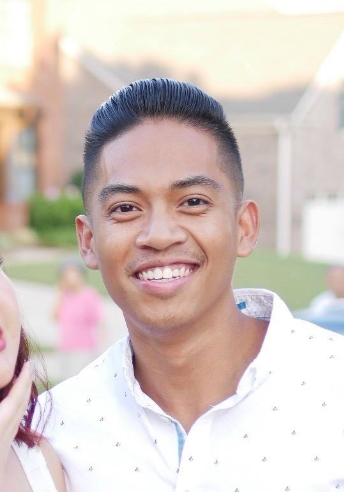
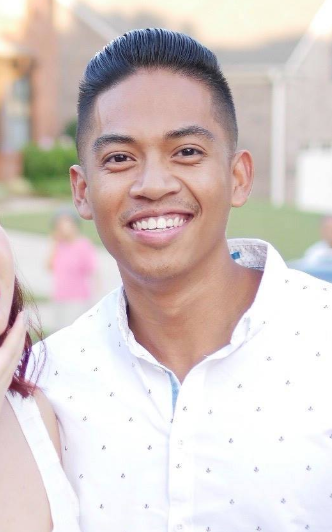
added personal image added cards for portfolio

diff --git a/index.html b/index.html
@@ -9,8 +9,9 @@
 
   <link href="https://fonts.googleapis.com/css?family=Poppins:400,500,600,700%7CAllura" rel="stylesheet">
   <link rel="stylesheet" href="https://use.fontawesome.com/releases/v5.8.1/css/all.css"
-  integrity="sha384-50oBUHEmvpQ+1lW4y57PTFmhCaXp0ML5d60M1M7uH2+nqUivzIebhndOJK28anvf" crossorigin="anonymous">
-  <link rel="stylesheet" href="https://stackpath.bootstrapcdn.com/bootstrap/4.3.1/css/bootstrap.min.css" integrity="sha384-ggOyR0iXCbMQv3Xipma34MD+dH/1fQ784/j6cY/iJTQUOhcWr7x9JvoRxT2MZw1T" crossorigin="anonymous">
+    integrity="sha384-50oBUHEmvpQ+1lW4y57PTFmhCaXp0ML5d60M1M7uH2+nqUivzIebhndOJK28anvf" crossorigin="anonymous">
+  <link rel="stylesheet" href="https://stackpath.bootstrapcdn.com/bootstrap/4.3.1/css/bootstrap.min.css"
+    integrity="sha384-ggOyR0iXCbMQv3Xipma34MD+dH/1fQ784/j6cY/iJTQUOhcWr7x9JvoRxT2MZw1T" crossorigin="anonymous">
   <link href="common-css/fluidbox.min.css" rel="stylesheet">
   <link href="01-cv-portfolio/css/styles.css" rel="stylesheet">
   <link href="01-cv-portfolio/css/responsive.css" rel="stylesheet">
@@ -41,9 +42,9 @@
           </div>
           <div class="col-sm-6 col-md-6 col-lg-4">
             <div class="info">
-                <i class="icon fas fa-envelope"></i>
-                <div class="right-area">
-                <h5><a href="">Email:</a></h5>
+              <i class="icon fas fa-envelope"></i>
+              <div class="right-area">
+                <h5>Email:</h5>
                 <h5><a href="">salamancaronito@gmail.com</a></h5>
               </div>
             </div>
@@ -58,16 +59,10 @@
       <div class="row">
         <div class="col-md-1 col-lg-2"></div>
         <div class="col-md-10 col-lg-8">
-          <div class="intro">
-            <div class="profile-img"><img src="https://placeimg.com/250/250/any" alt=""></div>
+          <div class="intro rounded-top">
+            <div class="profile-img"><img src="/images/profile.png" alt=""></div>
             <h2><b>RJ Salamanca</b></h2>
             <h4 class="font-yellow">Full Stack Web Developer</h4>
-            <!-- <ul class="information margin-tb-30">
-              <li><b>BORN : </b>August 25, 1987</li>
-              <li><b>EMAIL : </b><a href="/cdn-cgi/l/email-protection" class="__cf_email__"
-                  data-cfemail="92ffebfffbe6fad2ffebe5f7f0e2f3f5f7bcf1fdff">[email&#160;protected]</a></li>
-              <li><b>MARITAL STATUS : </b>Married</li>
-            </ul> -->
             <ul class="social-icons">
               <li><a href="#"><i class="fab fa-github"></i></a></li>
               <li><a href="#"><i class="fab fa-linkedin"></i></a></li>
@@ -88,141 +83,64 @@
           </div>
         </div>
         <div class="container">
-
-          <div class="row">
-            <div class="col-md-4">
+          <div class="row card-group">
+            <div class="d-flex col-md-4">
               <div class="card mb-4 shadow-sm">
-                <svg class="bd-placeholder-img card-img-top" width="100%" height="225" xmlns="http://www.w3.org/2000/svg" preserveAspectRatio="xMidYMid slice" focusable="false" role="img" aria-label="Placeholder: Thumbnail"><title>Placeholder</title><rect width="100%" height="100%" fill="#55595c"></rect><text x="50%" y="50%" fill="#eceeef" dy=".3em">Thumbnail</text></svg>
-                <div class="card-body">
-                  <p class="card-text">This is a wider card with supporting text below as a natural lead-in to additional content. This content is a little bit longer.</p>
-                  <div class="d-flex justify-content-between align-items-center">
+                <img class="card-img-top" src="https://placeimg.com/640/480/any" alt="Card image cap">
+                <div class="d-flex flex-column card-body">
+                  <h5 class="card-title">Dangerous Diving</h5>
+                  <p class="card-text">This is a wider card with supporting text below as a natural lead-in to
+                    additional content. This content is a little bit longer.</p>
+                  <div class="d-flex flex-grow-1 justify-content-between align-items-end mt-2">
                     <div class="btn-group">
                       <button type="button" class="btn btn-sm btn-outline-secondary">View</button>
                       <button type="button" class="btn btn-sm btn-outline-secondary">Edit</button>
                     </div>
-                    <small class="text-muted">9 mins</small>
+                    <div class="ml-2">
+                      <i class="icon fab fa-python"></i>
+                    </div>                    
                   </div>
                 </div>
               </div>
             </div>
-            <div class="col-md-4">
+            <div class="d-flex col-md-4">
               <div class="card mb-4 shadow-sm">
-                <svg class="bd-placeholder-img card-img-top" width="100%" height="225" xmlns="http://www.w3.org/2000/svg" preserveAspectRatio="xMidYMid slice" focusable="false" role="img" aria-label="Placeholder: Thumbnail"><title>Placeholder</title><rect width="100%" height="100%" fill="#55595c"></rect><text x="50%" y="50%" fill="#eceeef" dy=".3em">Thumbnail</text></svg>
-                <div class="card-body">
-                  <p class="card-text">This is a wider card with supporting text below as a natural lead-in to additional content. This content is a little bit longer.</p>
-                  <div class="d-flex justify-content-between align-items-center">
+                <img class="card-img-top" src="https://placeimg.com/640/480/any" alt="Card image cap">
+                <div class="d-flex flex-column card-body">
+                  <p class="card-text">This is a wider card with supporting text below as a natural lead-in to
+                    additional content. This content is a little bit longer.</p>
+                  <div class="d-flex flex-grow-1 justify-content-between align-items-end mt-2">
                     <div class="btn-group">
                       <button type="button" class="btn btn-sm btn-outline-secondary">View</button>
                       <button type="button" class="btn btn-sm btn-outline-secondary">Edit</button>
                     </div>
-                    <small class="text-muted">9 mins</small>
+                    <div class="ml-2">
+                      <i class="icon fab fa-js-square"></i>
+                      <i class="icon fab fa-html5"></i>
+                      <i class="icon fab fa-css3-alt"></i>
+                    </div>
                   </div>
                 </div>
               </div>
             </div>
-            <div class="col-md-4">
+            <div class="d-flex col-md-4">
               <div class="card mb-4 shadow-sm">
-                <svg class="bd-placeholder-img card-img-top" width="100%" height="225" xmlns="http://www.w3.org/2000/svg" preserveAspectRatio="xMidYMid slice" focusable="false" role="img" aria-label="Placeholder: Thumbnail"><title>Placeholder</title><rect width="100%" height="100%" fill="#55595c"></rect><text x="50%" y="50%" fill="#eceeef" dy=".3em">Thumbnail</text></svg>
-                <div class="card-body">
-                  <p class="card-text">This is a wider card with supporting text below as a natural lead-in to additional content. This content is a little bit longer.</p>
-                  <div class="d-flex justify-content-between align-items-center">
+                <img class="card-img-top" src="https://placeimg.com/640/480/any" alt="Card image cap">
+                <div class="d-flex flex-column card-body">
+                  <p class="card-text">This is a wider card with supporting text below as a natural lead-in to
+                    additional content. This content is a little bit longer.</p>
+                  <div class="d-flex flex-grow-1 justify-content-between align-items-end mt-2">
                     <div class="btn-group">
                       <button type="button" class="btn btn-sm btn-outline-secondary">View</button>
                       <button type="button" class="btn btn-sm btn-outline-secondary">Edit</button>
                     </div>
-                    <small class="text-muted">9 mins</small>
-                  </div>
-                </div>
-              </div>
-            </div>
-    
-            <div class="col-md-4">
-              <div class="card mb-4 shadow-sm">
-                <svg class="bd-placeholder-img card-img-top" width="100%" height="225" xmlns="http://www.w3.org/2000/svg" preserveAspectRatio="xMidYMid slice" focusable="false" role="img" aria-label="Placeholder: Thumbnail"><title>Placeholder</title><rect width="100%" height="100%" fill="#55595c"></rect><text x="50%" y="50%" fill="#eceeef" dy=".3em">Thumbnail</text></svg>
-                <div class="card-body">
-                  <p class="card-text">This is a wider card with supporting text below as a natural lead-in to additional content. This content is a little bit longer.</p>
-                  <div class="d-flex justify-content-between align-items-center">
-                    <div class="btn-group">
-                      <button type="button" class="btn btn-sm btn-outline-secondary">View</button>
-                      <button type="button" class="btn btn-sm btn-outline-secondary">Edit</button>
+                    <div class="ml-2">
+                      <i class="icon fab fa-js-square"></i>
+                      <i class="icon fab fa-node"></i>
+                      <i class="icon fab fa-html5"></i>
+                      <i class="icon fab fa-css3-alt"></i>
+                      <i class="icon fab fa-bootstrap"></i>
                     </div>
-                    <small class="text-muted">9 mins</small>
-                  </div>
-                </div>
-              </div>
-            </div>
-            <div class="col-md-4">
-              <div class="card mb-4 shadow-sm">
-                <svg class="bd-placeholder-img card-img-top" width="100%" height="225" xmlns="http://www.w3.org/2000/svg" preserveAspectRatio="xMidYMid slice" focusable="false" role="img" aria-label="Placeholder: Thumbnail"><title>Placeholder</title><rect width="100%" height="100%" fill="#55595c"></rect><text x="50%" y="50%" fill="#eceeef" dy=".3em">Thumbnail</text></svg>
-                <div class="card-body">
-                  <p class="card-text">This is a wider card with supporting text below as a natural lead-in to additional content. This content is a little bit longer.</p>
-                  <div class="d-flex justify-content-between align-items-center">
-                    <div class="btn-group">
-                      <button type="button" class="btn btn-sm btn-outline-secondary">View</button>
-                      <button type="button" class="btn btn-sm btn-outline-secondary">Edit</button>
-                    </div>
-                    <small class="text-muted">9 mins</small>
-                  </div>
-                </div>
-              </div>
-            </div>
-            <div class="col-md-4">
-              <div class="card mb-4 shadow-sm">
-                <svg class="bd-placeholder-img card-img-top" width="100%" height="225" xmlns="http://www.w3.org/2000/svg" preserveAspectRatio="xMidYMid slice" focusable="false" role="img" aria-label="Placeholder: Thumbnail"><title>Placeholder</title><rect width="100%" height="100%" fill="#55595c"></rect><text x="50%" y="50%" fill="#eceeef" dy=".3em">Thumbnail</text></svg>
-                <div class="card-body">
-                  <p class="card-text">This is a wider card with supporting text below as a natural lead-in to additional content. This content is a little bit longer.</p>
-                  <div class="d-flex justify-content-between align-items-center">
-                    <div class="btn-group">
-                      <button type="button" class="btn btn-sm btn-outline-secondary">View</button>
-                      <button type="button" class="btn btn-sm btn-outline-secondary">Edit</button>
-                    </div>
-                    <small class="text-muted">9 mins</small>
-                  </div>
-                </div>
-              </div>
-            </div>
-    
-            <div class="col-md-4">
-              <div class="card mb-4 shadow-sm">
-                <svg class="bd-placeholder-img card-img-top" width="100%" height="225" xmlns="http://www.w3.org/2000/svg" preserveAspectRatio="xMidYMid slice" focusable="false" role="img" aria-label="Placeholder: Thumbnail"><title>Placeholder</title><rect width="100%" height="100%" fill="#55595c"></rect><text x="50%" y="50%" fill="#eceeef" dy=".3em">Thumbnail</text></svg>
-                <div class="card-body">
-                  <p class="card-text">This is a wider card with supporting text below as a natural lead-in to additional content. This content is a little bit longer.</p>
-                  <div class="d-flex justify-content-between align-items-center">
-                    <div class="btn-group">
-                      <button type="button" class="btn btn-sm btn-outline-secondary">View</button>
-                      <button type="button" class="btn btn-sm btn-outline-secondary">Edit</button>
-                    </div>
-                    <small class="text-muted">9 mins</small>
-                  </div>
-                </div>
-              </div>
-            </div>
-            <div class="col-md-4">
-              <div class="card mb-4 shadow-sm">
-                <svg class="bd-placeholder-img card-img-top" width="100%" height="225" xmlns="http://www.w3.org/2000/svg" preserveAspectRatio="xMidYMid slice" focusable="false" role="img" aria-label="Placeholder: Thumbnail"><title>Placeholder</title><rect width="100%" height="100%" fill="#55595c"></rect><text x="50%" y="50%" fill="#eceeef" dy=".3em">Thumbnail</text></svg>
-                <div class="card-body">
-                  <p class="card-text">This is a wider card with supporting text below as a natural lead-in to additional content. This content is a little bit longer.</p>
-                  <div class="d-flex justify-content-between align-items-center">
-                    <div class="btn-group">
-                      <button type="button" class="btn btn-sm btn-outline-secondary">View</button>
-                      <button type="button" class="btn btn-sm btn-outline-secondary">Edit</button>
-                    </div>
-                    <small class="text-muted">9 mins</small>
-                  </div>
-                </div>
-              </div>
-            </div>
-            <div class="col-md-4">
-              <div class="card mb-4 shadow-sm">
-                <svg class="bd-placeholder-img card-img-top" width="100%" height="225" xmlns="http://www.w3.org/2000/svg" preserveAspectRatio="xMidYMid slice" focusable="false" role="img" aria-label="Placeholder: Thumbnail"><title>Placeholder</title><rect width="100%" height="100%" fill="#55595c"></rect><text x="50%" y="50%" fill="#eceeef" dy=".3em">Thumbnail</text></svg>
-                <div class="card-body">
-                  <p class="card-text">This is a wider card with supporting text below as a natural lead-in to additional content. This content is a little bit longer.</p>
-                  <div class="d-flex justify-content-between align-items-center">
-                    <div class="btn-group">
-                      <button type="button" class="btn btn-sm btn-outline-secondary">View</button>
-                      <button type="button" class="btn btn-sm btn-outline-secondary">Edit</button>
-                    </div>
-                    <small class="text-muted">9 mins</small>
                   </div>
                 </div>
               </div>
@@ -392,12 +310,18 @@
   <script src="common-js/jquery.waypoints.min.js" type="68a1658774019bd5bb69f142-text/javascript"></script>
   <script src="common-js/progressbar.min.js" type="68a1658774019bd5bb69f142-text/javascript"></script>
   <script src="common-js/scripts.js" type="68a1658774019bd5bb69f142-text/javascript"></script>
-  
-  <script src="https://code.jquery.com/jquery-3.3.1.slim.min.js" integrity="sha384-q8i/X+965DzO0rT7abK41JStQIAqVgRVzpbzo5smXKp4YfRvH+8abtTE1Pi6jizo" crossorigin="anonymous"></script>
-<script src="https://cdnjs.cloudflare.com/ajax/libs/popper.js/1.14.7/umd/popper.min.js" integrity="sha384-UO2eT0CpHqdSJQ6hJty5KVphtPhzWj9WO1clHTMGa3JDZwrnQq4sF86dIHNDz0W1" crossorigin="anonymous"></script>
-<script src="https://stackpath.bootstrapcdn.com/bootstrap/4.3.1/js/bootstrap.min.js" integrity="sha384-JjSmVgyd0p3pXB1rRibZUAYoIIy6OrQ6VrjIEaFf/nJGzIxFDsf4x0xIM+B07jRM" crossorigin="anonymous"></script>
 
- 
+  <script src="https://code.jquery.com/jquery-3.3.1.slim.min.js"
+    integrity="sha384-q8i/X+965DzO0rT7abK41JStQIAqVgRVzpbzo5smXKp4YfRvH+8abtTE1Pi6jizo" crossorigin="anonymous">
+  </script>
+  <script src="https://cdnjs.cloudflare.com/ajax/libs/popper.js/1.14.7/umd/popper.min.js"
+    integrity="sha384-UO2eT0CpHqdSJQ6hJty5KVphtPhzWj9WO1clHTMGa3JDZwrnQq4sF86dIHNDz0W1" crossorigin="anonymous">
+  </script>
+  <script src="https://stackpath.bootstrapcdn.com/bootstrap/4.3.1/js/bootstrap.min.js"
+    integrity="sha384-JjSmVgyd0p3pXB1rRibZUAYoIIy6OrQ6VrjIEaFf/nJGzIxFDsf4x0xIM+B07jRM" crossorigin="anonymous">
+  </script>
+
+
   <script type="68a1658774019bd5bb69f142-text/javascript">
     window.dataLayer = window.dataLayer || [];
 
